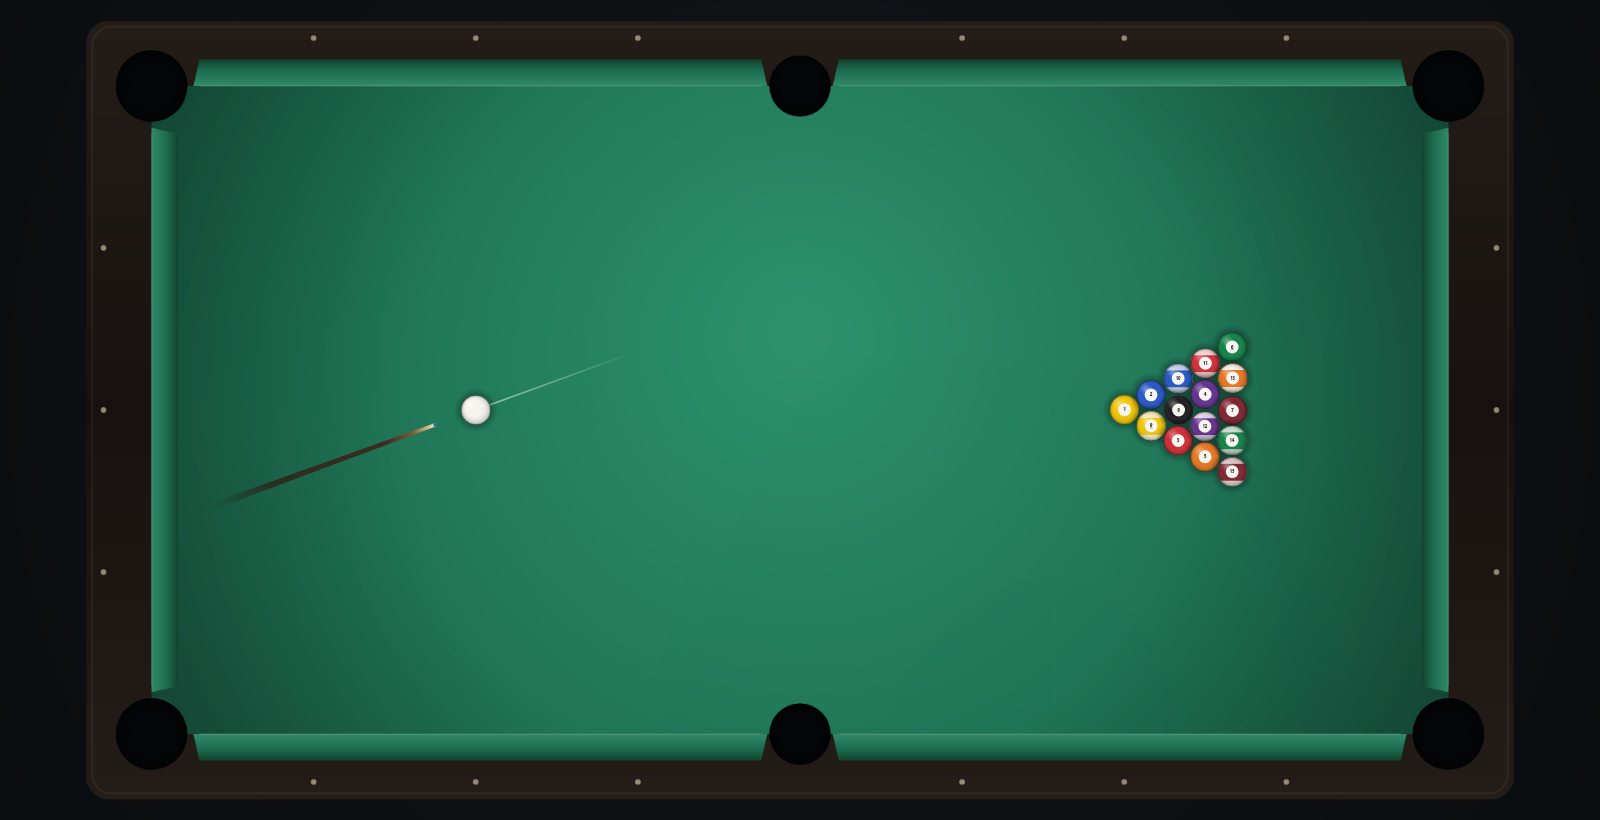
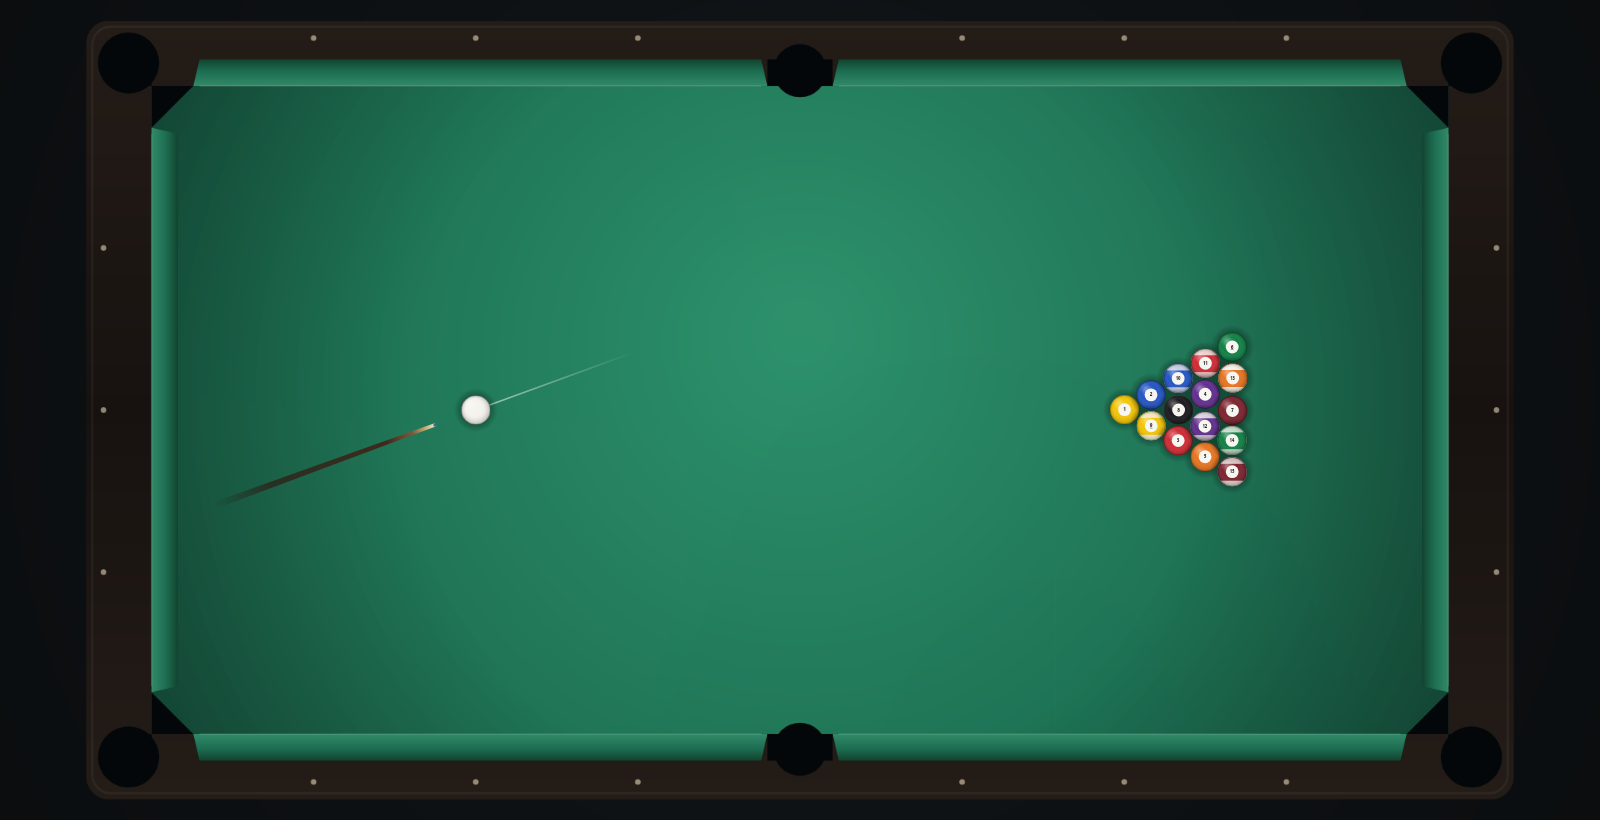
Pockets fall where they are drawn, and a test for the cushion line
Pocket capture now uses the mouth the cushions leave - the diagonal between the two cushion ends for a corner, the rail line between them for a side - instead of the edge of the playing rectangle, so a ball disappears exactly where the hole starts. Pockets are drawn from that same mouth. Added a test that a ball fired at a cushion stops on the line and never inside it.

diff --git a/src/render/scene.ts b/src/render/scene.ts
@@ -1,4 +1,4 @@
-import { BALL_R, HALF_L, HALF_W, TABLE_L, TABLE_W } from '../core/constants';
+import { BALL_R, CORNER_GAP, HALF_L, HALF_W, SIDE_GAP, TABLE_L, TABLE_W } from '../core/constants';
 import type { Ball } from '../core/physics';
 import { TAU, qRotate, type V2, type V3 } from '../core/math';
 import { CUSHIONS, POCKETS } from '../core/table';
@@ -171,21 +171,35 @@ function buildTable(): HTMLCanvasElement {
   }
 
   // --- pockets ---
+  // The mouth is the gap between the cushion ends, so the hole is drawn
+  // starting from that same mouth. What you see is what the ball falls into.
   POCKETS.forEach((p, i) => {
     const corner = i < 4;
-    const r = corner ? 0.070 : 0.060;
+    const r = corner ? 0.060 : 0.052;
+    const sx = Math.sign(p.x);
+    const sy = Math.sign(p.y);
 
     g.fillStyle = '#04070a';
     g.beginPath();
-    g.arc(p.x, p.y, r, 0, TAU);
+    if (corner) {
+      // wedge from the two cushion ends out past the corner, rounded off
+      g.moveTo(p.x - sx * CORNER_GAP, p.y);
+      g.lineTo(p.x + sx * 0.052, p.y);
+      g.lineTo(p.x + sx * 0.052, p.y + sy * 0.052);
+      g.lineTo(p.x, p.y + sy * 0.052);
+      g.lineTo(p.x, p.y - sy * CORNER_GAP);
+      g.closePath();
+    } else {
+      g.moveTo(p.x - SIDE_GAP, p.y);
+      g.lineTo(p.x - SIDE_GAP, p.y + sy * 0.052);
+      g.lineTo(p.x + SIDE_GAP, p.y + sy * 0.052);
+      g.lineTo(p.x + SIDE_GAP, p.y);
+      g.closePath();
+    }
     g.fill();
 
-    const lip = g.createRadialGradient(p.x, p.y, r * 0.5, p.x, p.y, r);
-    lip.addColorStop(0, 'rgba(0,0,0,0)');
-    lip.addColorStop(1, 'rgba(0,0,0,0.7)');
-    g.fillStyle = lip;
     g.beginPath();
-    g.arc(p.x, p.y, r, 0, TAU);
+    g.arc(corner ? p.x + sx * 0.045 : p.x, corner ? p.y + sy * 0.045 : p.y + sy * 0.03, r, 0, TAU);
     g.fill();
   });
 

diff --git a/src/core/table.ts b/src/core/table.ts
@@ -67,12 +67,33 @@ export const JAWS: V2[] = CUSHIONS.flatMap((c) => [
 export const JAW_RADIUS = JAW_R;
 
 /**
- * A ball is pocketed when its centre leaves the playing rectangle. It can only
- * do that through a gap, because the cushions block everywhere else, so this
- * one test covers all six pockets without any special casing.
+ * Which pocket the point is in, or null.
+ *
+ * The test is the mouth the two cushions actually leave, not the edge of the
+ * playing rectangle: a corner pocket opens along the diagonal between its two
+ * cushion ends, and a side pocket opens along the rail line between its two
+ * ends. Drawn and simulated the same way, so a ball disappears exactly where
+ * it looks like it should.
+ */
+export function pocketAt(x: number, y: number): number | null {
+  const sx = x < 0 ? -1 : 1;
+  const sy = y < 0 ? -1 : 1;
+  // The corner mouth is the line sx*x + sy*y = HALF_L + HALF_W - CORNER_GAP.
+  if (sx * x + sy * y > HALF_L + HALF_W - CORNER_GAP) {
+    return sy > 0 ? (sx > 0 ? 3 : 2) : sx > 0 ? 1 : 0;
+  }
+  if (Math.abs(x) < SIDE_GAP && Math.abs(y) > HALF_W) {
+    return y > 0 ? 5 : 4;
+  }
+  return null;
+}
+
+/**
+ * A ball is pocketed when its centre passes the mouth of a pocket. It can only
+ * get there through a gap, because the cushions block everywhere else.
  */
 export function leftTheTable(x: number, y: number): boolean {
-  return Math.abs(x) > HALF_L || Math.abs(y) > HALF_W;
+  return pocketAt(x, y) !== null;
 }
 
 export function inPlayArea(x: number, y: number, r: number): boolean {

diff --git a/test/physics.test.ts b/test/physics.test.ts
@@ -132,6 +132,17 @@ describe('simulation', () => {
     expect(res.balls[0].p.x).toBeLessThan(HALF_L);
   });
 
+  it('stops on the cushion line, never inside it', () => {
+    // Fired hard along y: the ball's centre may reach the rail line minus its
+    // radius and not one millimetre further, which is where the cushion is
+    // drawn.
+    const res = shoot([cue(-0.6)], { aim: Math.PI / 2, power: 1, spin: { x: 0, y: 0 } });
+    let maxY = -Infinity;
+    for (const f of res.frames) maxY = Math.max(maxY, f.data[1]);
+    expect(maxY).toBeLessThanOrEqual(HALF_W - BALL_R + 1e-4);
+    expect(maxY).toBeGreaterThan(HALF_W - BALL_R - 0.002);
+  });
+
   it('drops a ball into a corner pocket', () => {
     const st = makeBall(1, 1.05, 0.42);
     const res = shoot(
